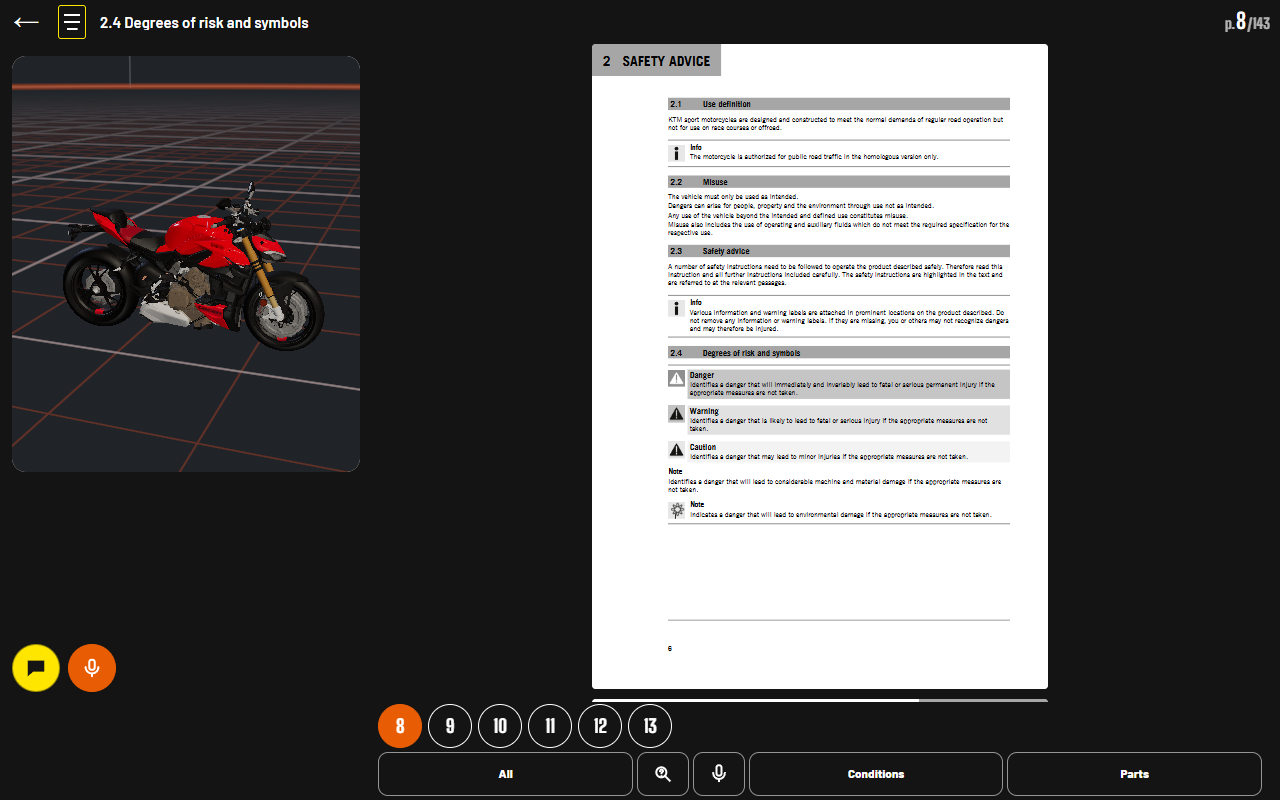
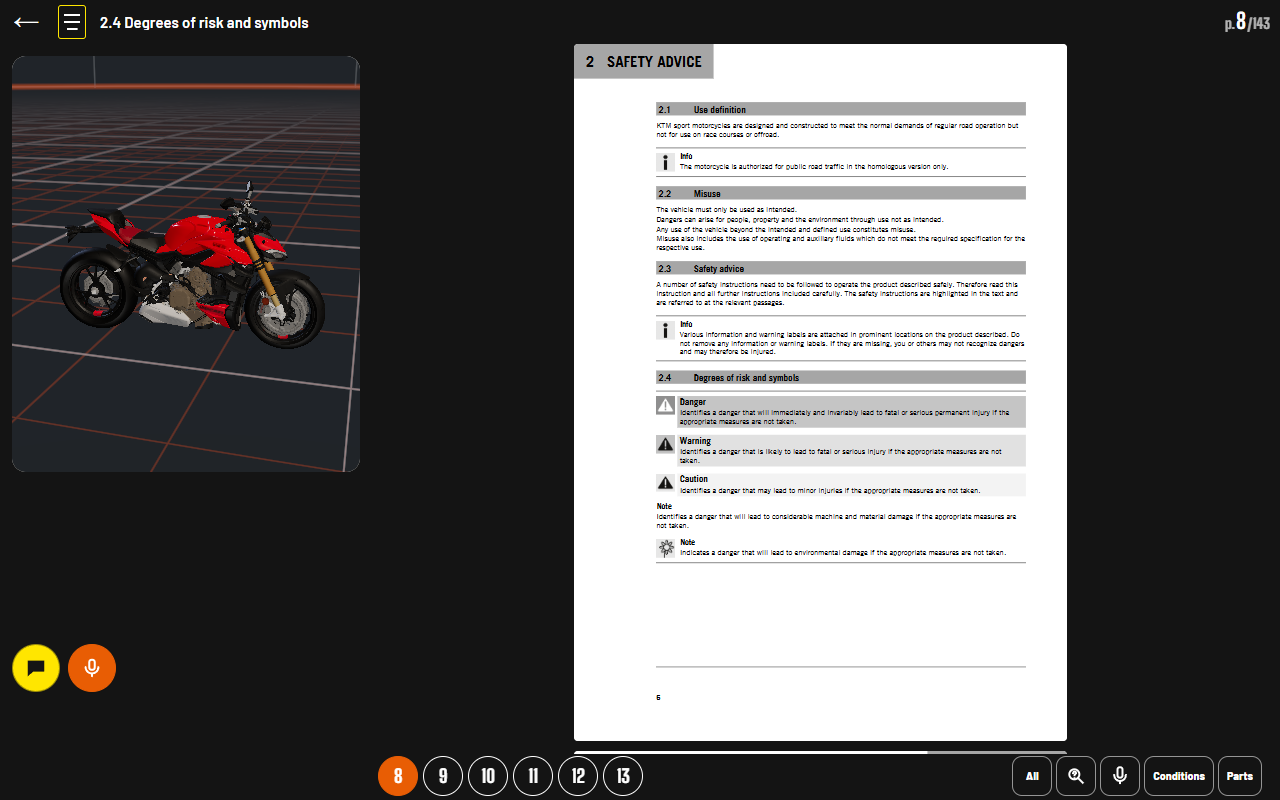
wip: final stretch 16:46

diff --git a/web/counter/sw.js b/web/counter/sw.js
@@ -1,6 +1,6 @@
 // Stamped by deploy/web.sh on every deploy (git sha + time), so each release installs a fresh
 // worker, drops the previous caches and takes over every open tab.
-const VERSION = "1c9283a0-202609201441";
+const VERSION = "6a0728b2-202609201444";
 const SHELL = `mechanica-shell-${VERSION}`;
 const RUNTIME = `mechanica-runtime-${VERSION}`;
 const DATA = `mechanica-data-${VERSION}`;
